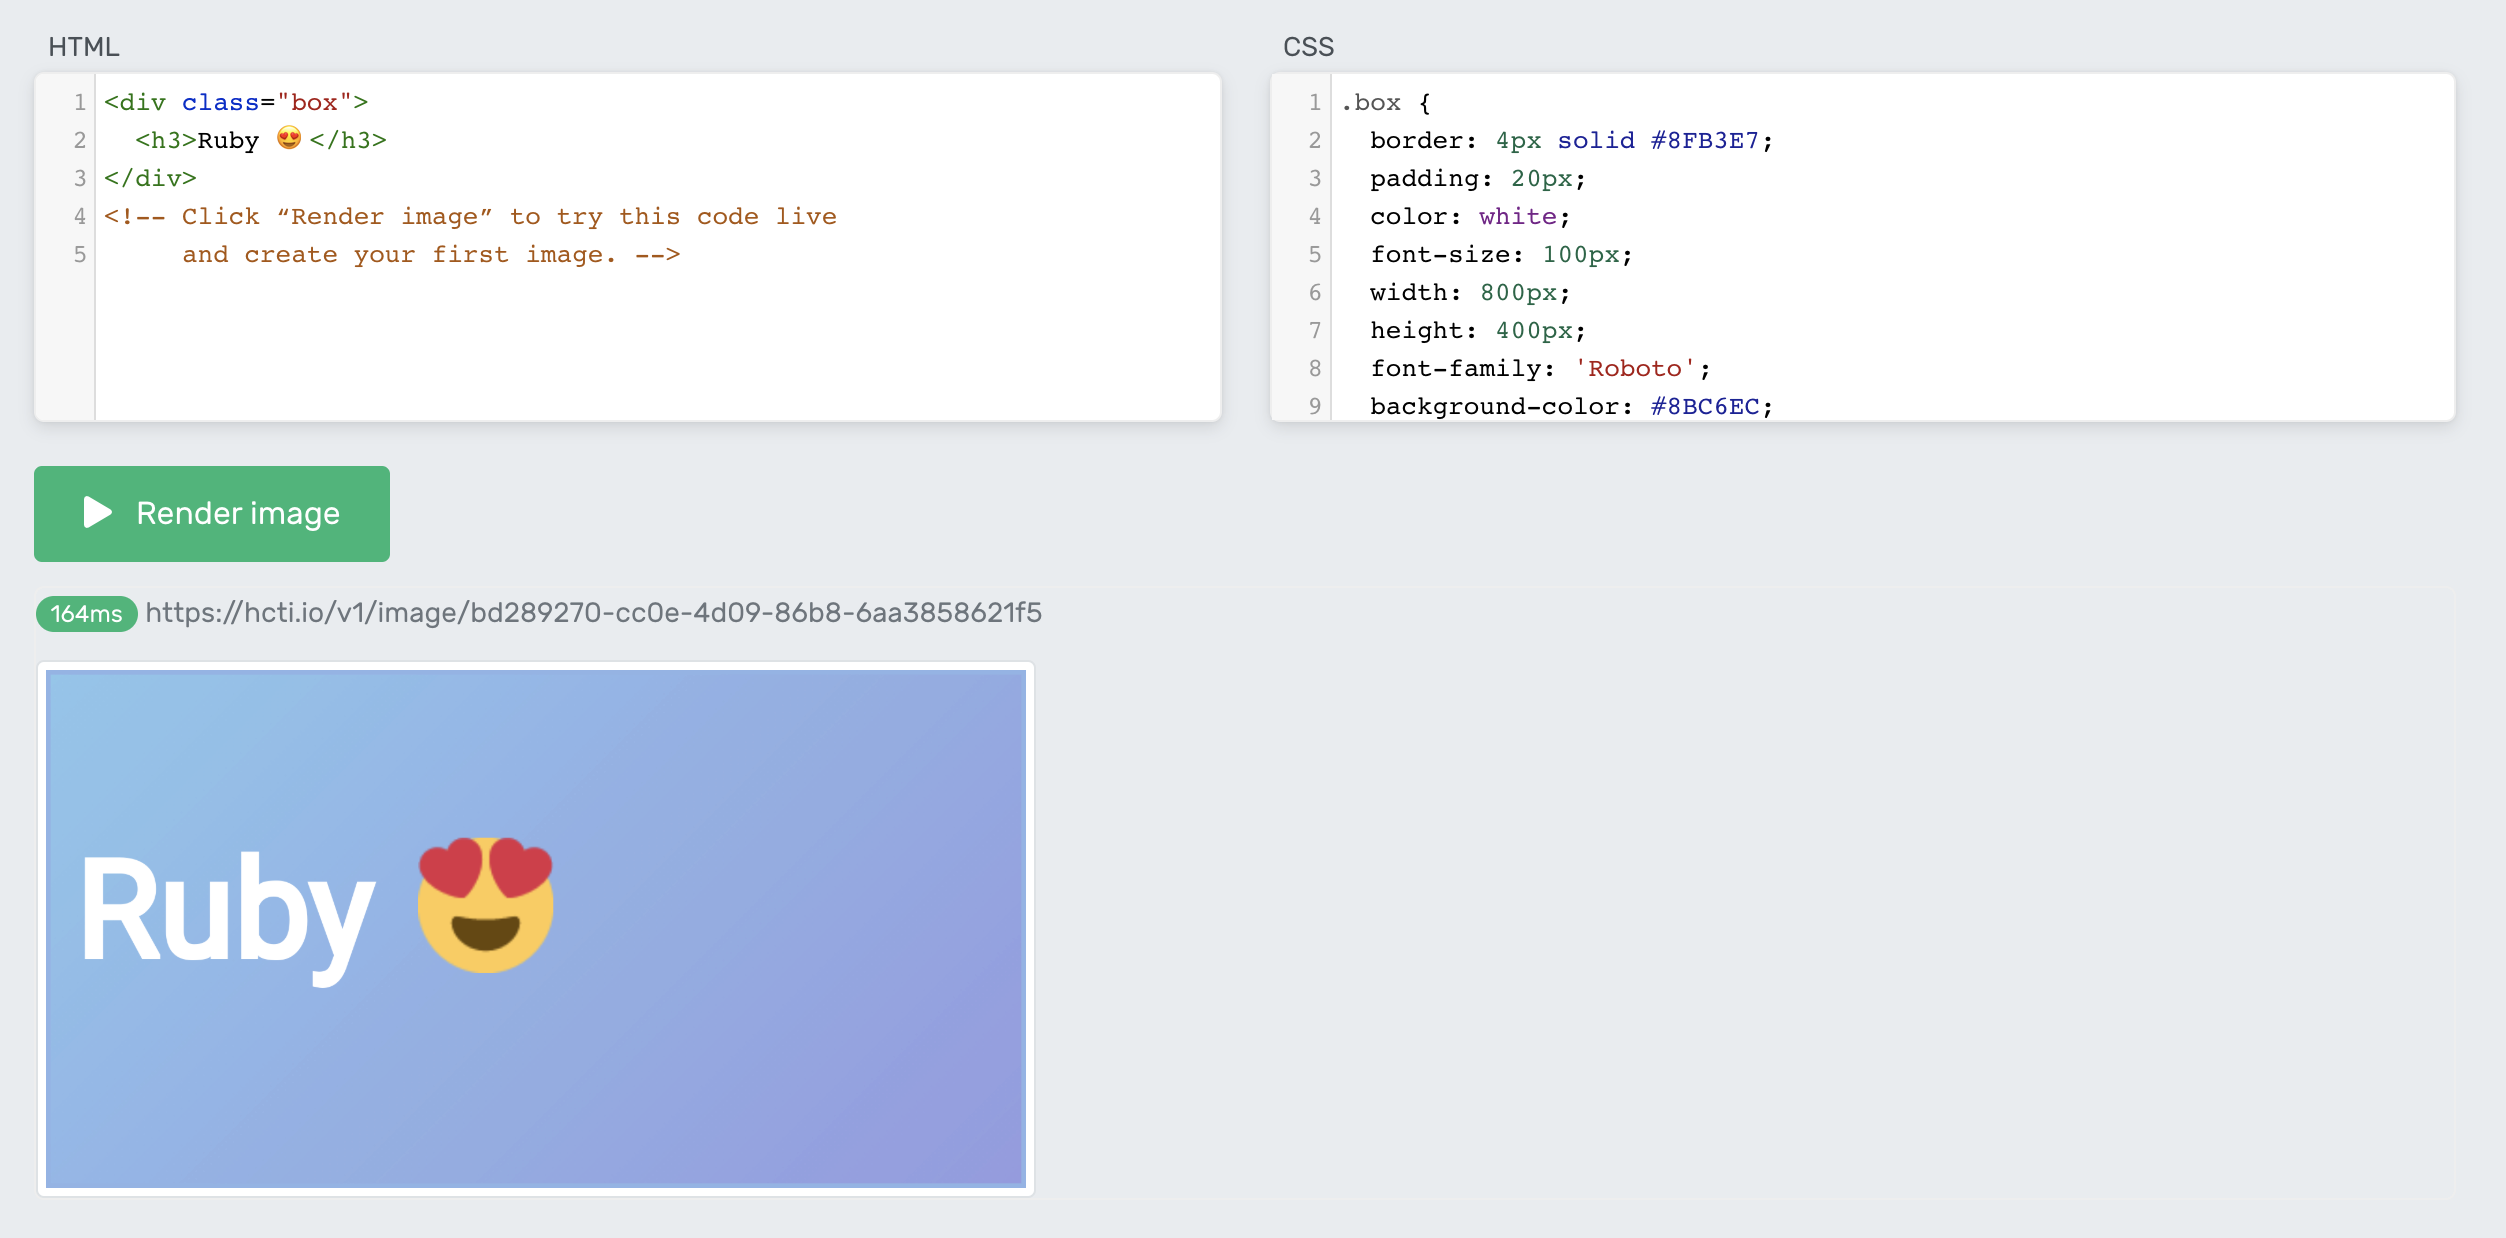
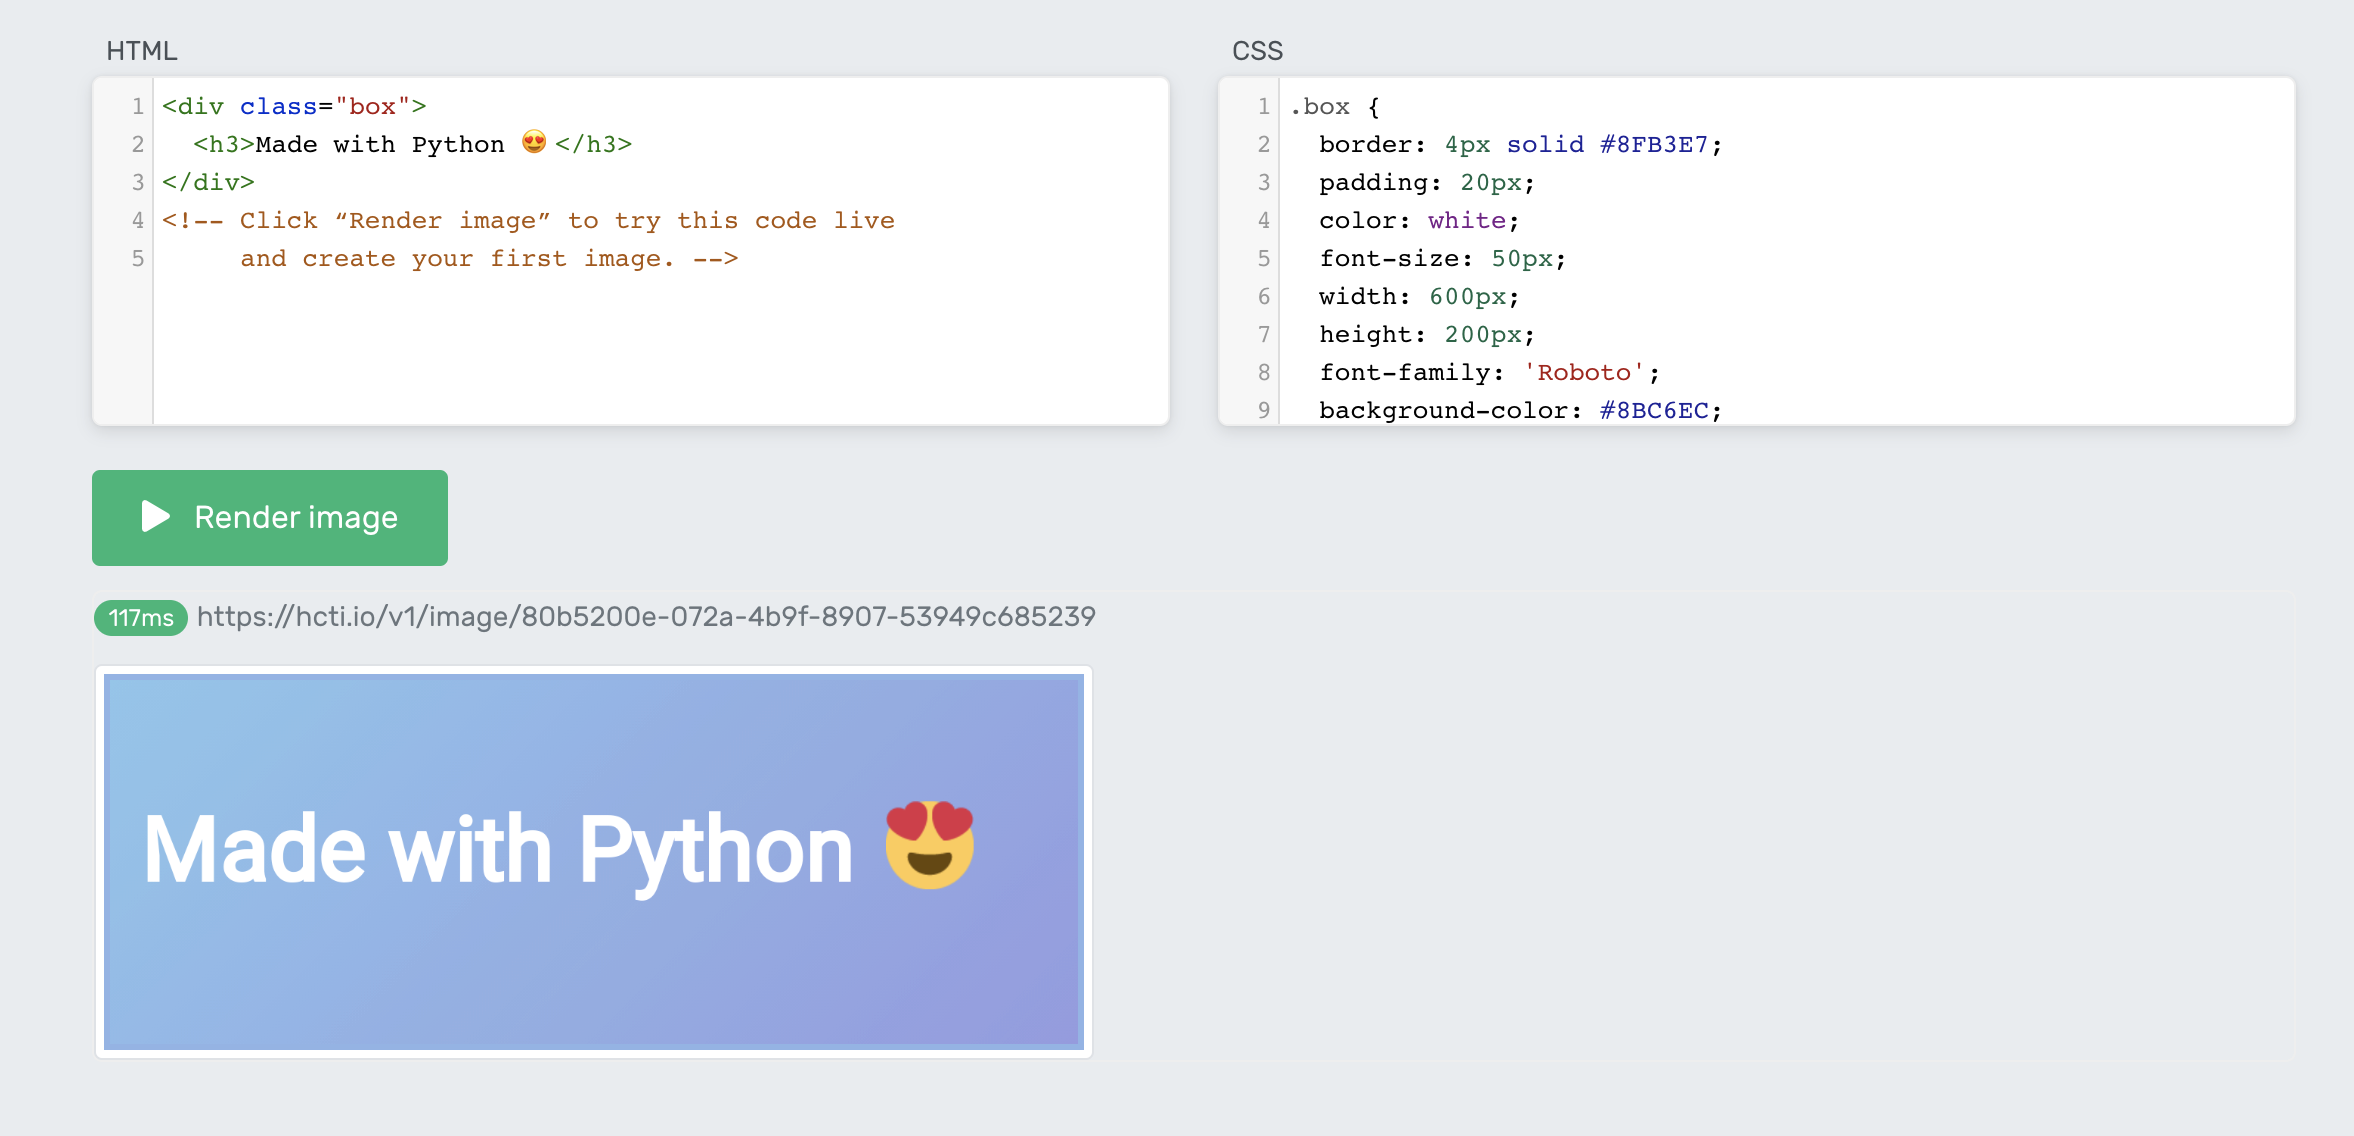
GitBook: [master] 5 pages and 3 assets modified

Changed region(s): [[0.0, 0.0308, 0.4962, 0.9859], [0.4962, 0.0308, 0.9924, 0.3697]]

diff --git a/example-code/python.md b/example-code/python.md
@@ -1,18 +1,18 @@
 ---
 description: >-
-  Example code for converting HTML/CSS to an Image with Ruby. Renders the image
-  exactly like Google Chrome.
+  Convert HTML to an image (png, jpg or webp) with Python + the HTML/CSS to
+  Image API. Renders exactly like Google Chrome.
 ---
 
-# Ruby
+# Python
 
-In this post, you'll learn how to convert html/css to an image with Ruby
+Here you'll learn how to convert html to an image using Python.
 
-![HTML to Image with Ruby](../.gitbook/assets/image%20%2817%29.png)
+![HTML to Image with Python](../.gitbook/assets/image%20%2816%29.png)
 
 Try it out yourself with the ****[**live demo**](https://htmlcsstoimage.com/#demo).
 
-### Plain Ruby example
+### Simple Python example
 
 To create an image, you need to send a POST request to the  `v1/image` endpoint. 
 
@@ -60,37 +60,35 @@ Separate multiple fonts with a `|`.
 
 This script will send HTML/CSS to the API and get back a URL to your new image. You'll need an API key to use this example.
 
-If you'd like to try it out first without writing any code, take a look at the [demo](https://htmlcsstoimage.com/#demo).
+If you'd like to try it out first without writing any code, try the [demo](https://htmlcsstoimage.com/#demo).
 
-### Setup
-
-This example uses the [HTTParty gem](https://github.com/jnunemaker/httparty). Install with `gem install httparty`, or add it to your Gemfile.
-
-### Example code
+This example uses the requests library. To install, run: `pip3 install requests`
 
 {% code-tabs %}
-{% code-tabs-item title="image.rb" %}
-```ruby
-require "httparty"
-# Retrieve your user id and api key from the Dashboard
-auth = { username: 'user_id', password: 'api_key' }
+{% code-tabs-item title="hcti.py" %}
+```python
+# pip3 install requests
+import requests
 
-html = "<div class='ping'>Pong ✅</div>"
-css = ".ping { padding: 20px; font-family: 'sans-serif'; }"
+HCTI_API_ENDPOINT = "https://hcti.io/v1/image"
+HCTI_API_USER_ID = 'your-user-id'
+HCTI_API_KEY = 'your-api-key'
 
-image = HTTParty.post("https://hcti.io/v1/image",
-                      body: { html: html, css: css },
-                      basic_auth: auth)
+data = { 'html': "<div class='box'>Hello, world!</div>",
+         'css': ".box { color: white; background-color: #0f79b9; padding: 10px; font-family: Roboto }",
+         'google_fonts': "Roboto" }
 
-# => {"url"=>"https://hcti.io/v1/image/bde7d5bf-f7bb-49d9-b931-74e5512b8738"}
+image = requests.post(url = HCTI_API_ENDPOINT, data = data, auth=(HCTI_API_USER_ID, HCTI_API_KEY))
+
+print("Your image URL is: %s"%image.json()['url'])
+# https://hcti.io/v1/image/7ed741b8-f012-431e-8282-7eedb9910b32
 ```
 {% endcode-tabs-item %}
 {% endcode-tabs %}
 
-### Advanced examples
+### More examples
 
-* [Generating an image and storing on S3](../advanced-examples/create-image-and-save-to-s3-ruby.md)
-* For more advanced examples, [take a look here](../#examples).
+This page showed really simple image examples. The API can render anything that Google Chrome can. For more advanced examples, [take a look here](../#examples).
 
 ### Need help?
 

diff --git a/README.md b/README.md
@@ -26,6 +26,8 @@ Rendering your first image takes 5 minutes. Pick your language.
 
 {% page-ref page="example-code/curl.md" %}
 
+{% page-ref page="example-code/python.md" %}
+
 Your language not here? We work with any language or framework. See the [curl](example-code/curl.md) example for how to make a request. [Email us](mailto:support@htmlcsstoimage.com) if you need help getting started. We'd love to add more example code here.
 
 ## Converting HTML/CSS into images

diff --git a/getting-started/creating-an-image.md b/getting-started/creating-an-image.md
@@ -19,6 +19,7 @@ To create an image, send an **HTTP POST** request to the `/v1/image` endpoint. T
 * [PHP](../example-code/php.md)
 * [JavaScript](../example-code/javascript.md)
 * [Ruby](../example-code/ruby.md)
+* [Python](../example-code/python.md)
 * [VB.NET](../example-code/vb.net.md)
 * [Go](../example-code/go.md)
 * [C\#](../example-code/c.md)

diff --git a/SUMMARY.md b/SUMMARY.md
@@ -36,6 +36,7 @@
 * [C\#](example-code/c.md)
 * [Go](example-code/go.md)
 * [cURL](example-code/curl.md)
+* [Python](example-code/python.md)
 * [Postman](example-code/postman.md)
 * [Insomnia REST client](example-code/insomnia.md)
 
